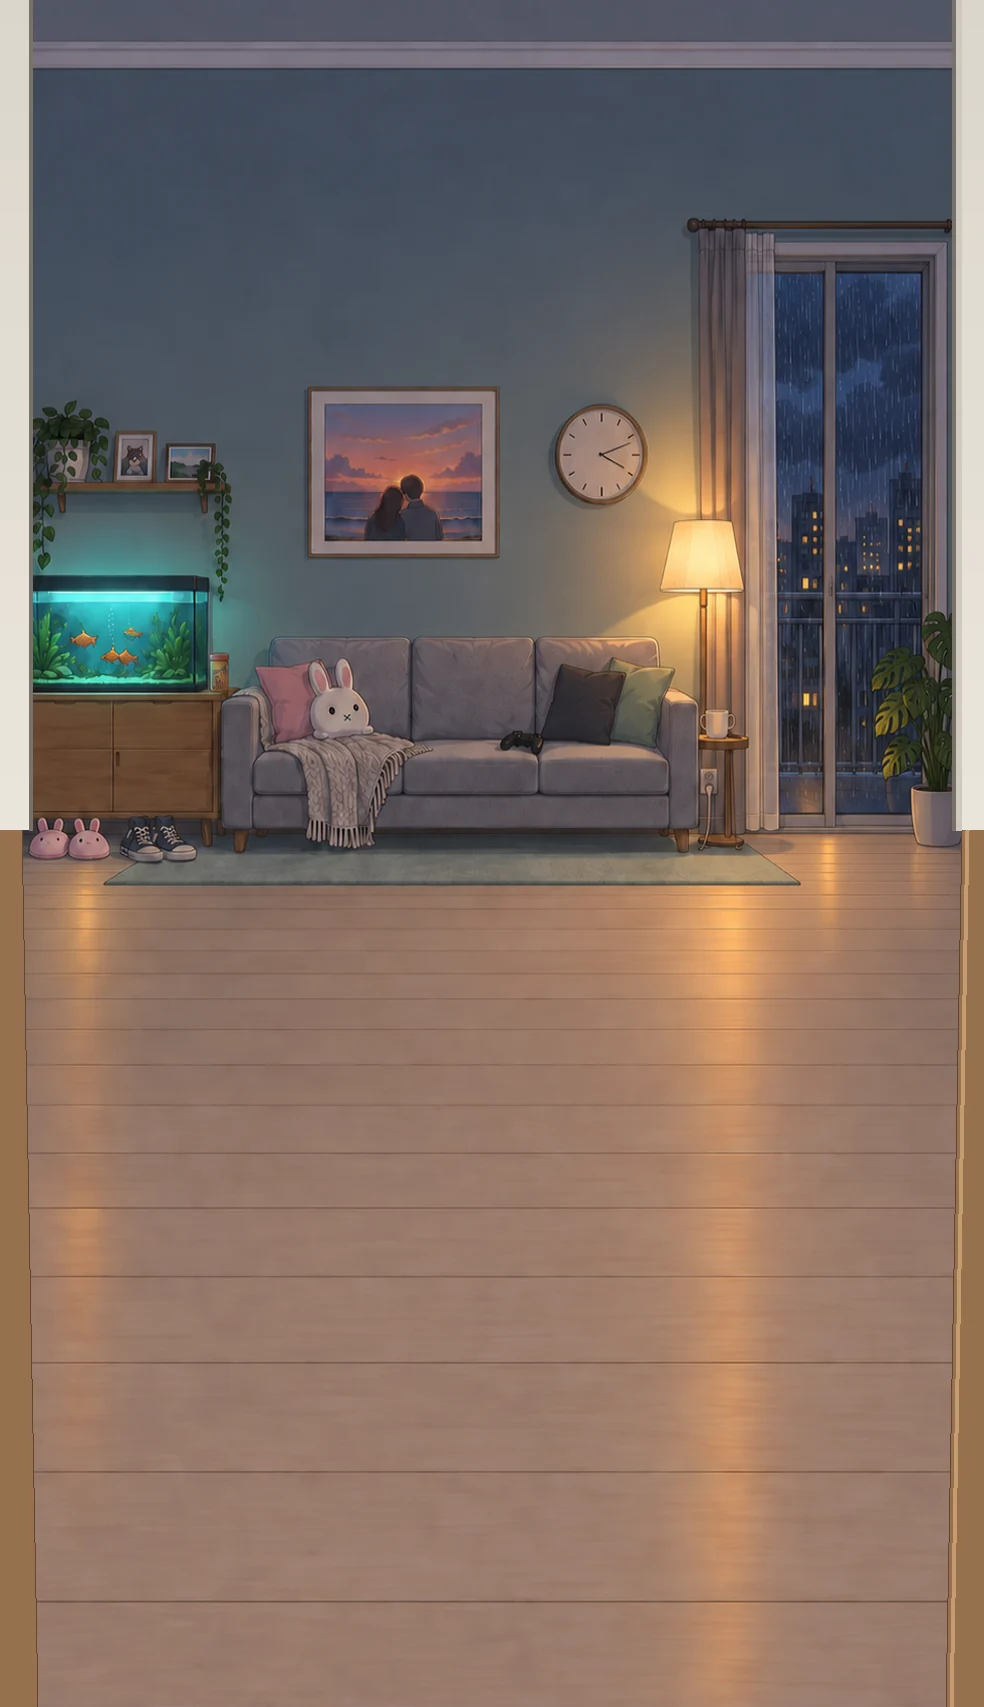
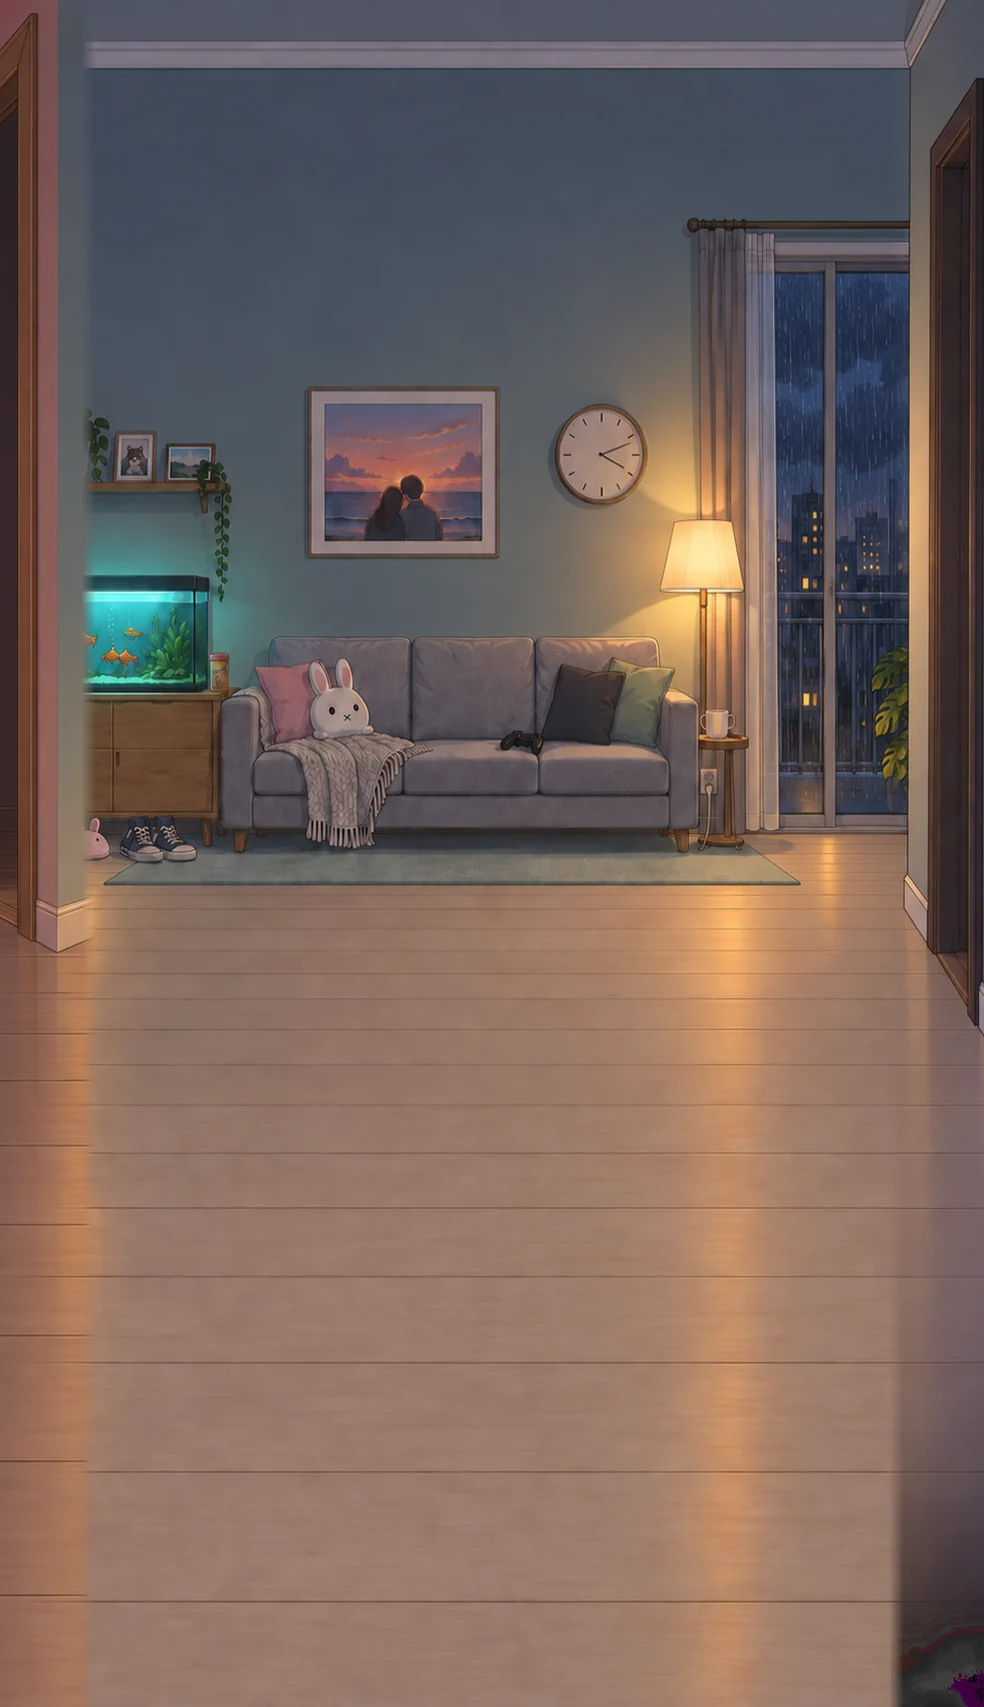
feat: v15 隔墙改为局部重绘的墙转角+木门套，替换脚本画的白柱子

Changed region(s): [[0.8841, 0.0, 1.0, 1.0], [0.0, 0.0, 0.0915, 0.6831], [0.0305, 0.8383, 0.061, 0.8694]]

diff --git a/chashouji/v14/bg/v15/assemble.py b/chashouji/v14/bg/v15/assemble.py
@@ -14,7 +14,6 @@ SIDE_W = round((GOAL_M - DOOR_M) * PX_PER_M) + MID        # 1628
 CENTER = SIDE_W + LIV_W // 2                              # 2120
 CEIL_Y, FLOOR_Y = 67, 830    # 统一的顶角线下沿 / 墙地交界（踢脚线下沿）。三张生成图各自量出来的线按行分段线性拉到这两条上，
                               # 隔墙两边的墙地线、顶角线才对得上（生成图同一张模板也会偏 ±40）
-PILLAR = 64
 
 def warp_rows(im, ceil, floor):
     """行映射：0→0、ceil→CEIL_Y、floor→FLOOR_Y、H→H，段内线性。"""
@@ -34,22 +33,20 @@ def fit(path, w, keep, ceil=CEIL_Y, floor=FLOOR_Y):
     x0 = {'left': 0, 'right': im.width - w, 'center': (im.width - w) // 2}[keep]
     return im.crop((x0, 0, x0 + w, H))
 
-def pillar(img, x):
-    d = ImageDraw.Draw(img)
-    a, b = x - PILLAR // 2, x + PILLAR // 2
-    # 隔墙剖面：从天花板到地板线，浅暖灰，左右描边 + 内侧一条阴影
-    for yy in range(0, FLOOR_Y):
-        t = yy / FLOOR_Y
-        c = tuple(int(v) for v in np.array([236, 230, 220]) * (0.93 + 0.07 * t))
-        d.line((a, yy, b, yy), fill=c)
-    d.rectangle((a, 0, a + 3, FLOOR_Y), fill=(120, 112, 104)); d.rectangle((b - 3, 0, b, FLOOR_Y), fill=(120, 112, 104))
-    d.rectangle((a + 4, 0, a + 9, FLOOR_Y), fill=(208, 200, 190))
-    # 门槛压条：地板线到画面底，往下略加宽
-    for yy in range(FLOOR_Y, H):
-        t = (yy - FLOOR_Y) / (H - FLOOR_Y); hw = 22 + 16 * t
-        d.line((x - hw, yy, x + hw, yy), fill=(150, 112, 78))
-        d.point((x - hw, yy), fill=(95, 70, 50)); d.point((x + hw, yy), fill=(95, 70, 50))
-        d.line((x - hw + 4, yy, x - hw + 7, yy), fill=(196, 156, 112))
+# 隔墙（2026-09-29 用户：脚本画的两根白柱子"有点丑，没有很好的融入环境"）：
+# 以接缝为中心取 960 宽，中间 ±SEAM_HALF 交给局部重绘，画成"左边房间的墙转角包着顶角线和踢脚线 → 木门套和暗的门洞
+# → 右边房间的墙"，两侧各被自己房间的灯光染色。seam{k}_src.png 是带旧白柱子的输入，seam{k}_mask.png 是蒙版，
+# seam{k}_gen.png 是挑中的生成图（任何一间房换图后要重新生成对应的接缝）。只混入竖带，边上 SEAM_FEATHER 渐变。
+SEAM_HALF, SEAM_FEATHER = 95, 14
+
+def seams(world):
+    for k, x in enumerate((SIDE_W, SIDE_W + LIV_W)):
+        gen = Image.open(os.path.join(HERE, f'seam{k}_gen.png')).convert('RGB').resize((960, H), Image.LANCZOS)
+        cv = world.crop((x - 480, 0, x + 480, H))
+        xs = np.arange(960) - 480
+        w = np.clip((SEAM_HALF - np.abs(xs)) / SEAM_FEATHER, 0, 1)[None, :, None]
+        out = np.array(cv, np.float32) * (1 - w) + np.array(gen, np.float32) * w
+        world.paste(Image.fromarray(out.clip(0, 255).astype(np.uint8)), (x - 480, 0))
 
 # 各房间生成图（缩到高 H 后）量到的顶角线下沿、墙地交界 y
 LINES = {'girl_2.png': (67, 830), 'livfix_1.png': (66, 790), 'boy_3n.png': (52, 868)}
@@ -60,7 +57,7 @@ def build(girl, living, boy, out):
     world = Image.new('RGB', (2 * SIDE_W + LIV_W, H)); x = 0
     for r in rooms: world.paste(r, (x, 0)); x += r.width
     goals(world)
-    pillar(world, SIDE_W); pillar(world, SIDE_W + LIV_W)
+    seams(world)
     world.save(out)
     return world
 

diff --git a/chashouji/v14/bg/v15/tiles.py b/chashouji/v14/bg/v15/tiles.py
@@ -5,7 +5,7 @@ from PIL import Image, ImageDraw, ImageFont
 HERE = os.path.dirname(os.path.abspath(__file__))
 TW, TH, OUT_W, OUT_H = 960, 1707, 1080, 1920
 TILES = {   # 名字: (世界 x0, [(动区名, x0, y0, x1, y1), ...])
-    'T1_客厅':        (1640, [('鱼缸', 1650, 570, 1845, 700), ('阳台门外雨', 2400, 255, 2575, 810)]),
+    'T1_客厅':        (1640, [('鱼缸', 1708, 570, 1845, 700), ('阳台门外雨', 2405, 255, 2535, 810)]),
     'T2_女生_写真窗': (560,  [('雨窗', 655, 240, 880, 660), ('写真相框', 1300, 210, 1485, 485)]),
     'T3_男生_猫':     (2640, [('黑猫', 3040, 560, 3180, 670)]),
     'T4_男生_雨窗':   (3280, [('雨窗', 3340, 230, 3655, 600)]),

diff --git a/chashouji/v14/bg/v15/全盘规划.md b/chashouji/v14/bg/v15/全盘规划.md
@@ -2,6 +2,7 @@
 
 三间房统一重画成**同一个雷雨夜**：女生卧室（闺房、暖粉） | 客厅（开落地灯的暖夜、主舞台、最安静） | 电竞房（杂乱、暗蓝紫）。
 实机预览：`index.html?bg=v15`（只换房间，默认长卷不动）。
+接缝（2026-09-29 用户嫌脚本画的白柱子丑）改为局部重绘：墙转角 + 木门套 + 暗门洞，两侧各受自己房间的光（seam{k}_gen.png）。
 
 ## 1. 世界几何（改了客厅长度）
 
@@ -22,8 +23,8 @@
 - 0~240 被 HUD（距离条、拉力牌）盖住，别放要紧的东西；墙面 240~830 放装饰和动态点；830~1334 是人站的地板，保持干净；人脚在 1195。
 
 ## 3. 接缝
-- 房间图**两侧都不画门**（按"剖面房子"来生成：左右边缘直接切开房间），接缝处由脚本画一道**隔墙剖面**（64 px 宽的浅暖灰墙垛，从天花板到墙地线）和一条**门槛压条**（墙地线往下到画面底）。两边的墙地线、顶角线都拉到了同一 y，所以隔墙两侧能直接对上。
-- 旧版"电竞房最左半扇门"和"客厅两边的门洞"都没了。以后换任何一间房都不用重做接缝。
+- 房间图**两侧都不画门**（按"剖面房子"来生成：左右边缘直接切开房间），接缝处以接缝为中心 ±95 px 局部重绘成**墙转角 + 木门套 + 暗门洞**（seam{k}_gen.png；换了哪间房就重新生成对应接缝）。两边的墙地线、顶角线都拉到了同一 y，所以隔墙两侧能直接对上。
+- 旧版"电竞房最左半扇门"和"客厅两边的门洞"都没了；房间图里不含门，门只出现在接缝重绘带里。
 
 ## 4. 光与层级（不喧宾夺主）
 - 亮度：客厅中亮偏暖（主舞台、落地灯），女生房中等、偏暖粉，电竞房最暗。
